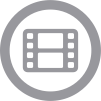
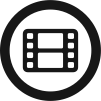
Updated buttons

diff --git a/main.py b/main.py
@@ -116,7 +116,7 @@ class NoteWindow(CustomWindowFrame):
         # Minus Button
         self.delete_note_button = QPushButton()
         self.delete_note_button.setIcon(QIcon(QPixmap("icons/trash.circle.png")))
-        self.delete_note_button.setStyleSheet("border: 5; padding: 5; border: none;")
+        self.delete_note_button.setStyleSheet("border: 2; padding: 2; border: none;")
         self.delete_note_button.setFixedSize(24, 24)
         self.delete_note_button.clicked.connect(self.delete_note)
         buttons_layout.addWidget(self.delete_note_button)
@@ -124,10 +124,19 @@ class NoteWindow(CustomWindowFrame):
         # Plus Button
         self.add_note_button = QPushButton()
         self.add_note_button.setIcon(QIcon(QPixmap("icons/plus.circle.png")))
-        self.add_note_button.setStyleSheet("border: 5; padding: 5; border: none;")
+        self.add_note_button.setStyleSheet("border: 2; padding: 2; border: none;")
         self.add_note_button.setFixedSize(24, 24)
         self.add_note_button.clicked.connect(self.add_note)
         buttons_layout.addWidget(self.add_note_button)
+
+        # Color Picker Button
+        self.color_picker_button = QPushButton()
+        self.color_picker_button.setIcon(QIcon(QPixmap("icons/drop.circle.png")))
+        self.color_picker_button.setStyleSheet("border: 2; padding: 2; border: none;")
+        self.color_picker_button.setFixedSize(24, 24)
+        self.color_picker_button.clicked.connect(self.show_color_menu)
+        buttons_layout.addWidget(self.color_picker_button)
+
         # Toolbar
         toolbar = QToolBar()
         layout.addWidget(toolbar)
